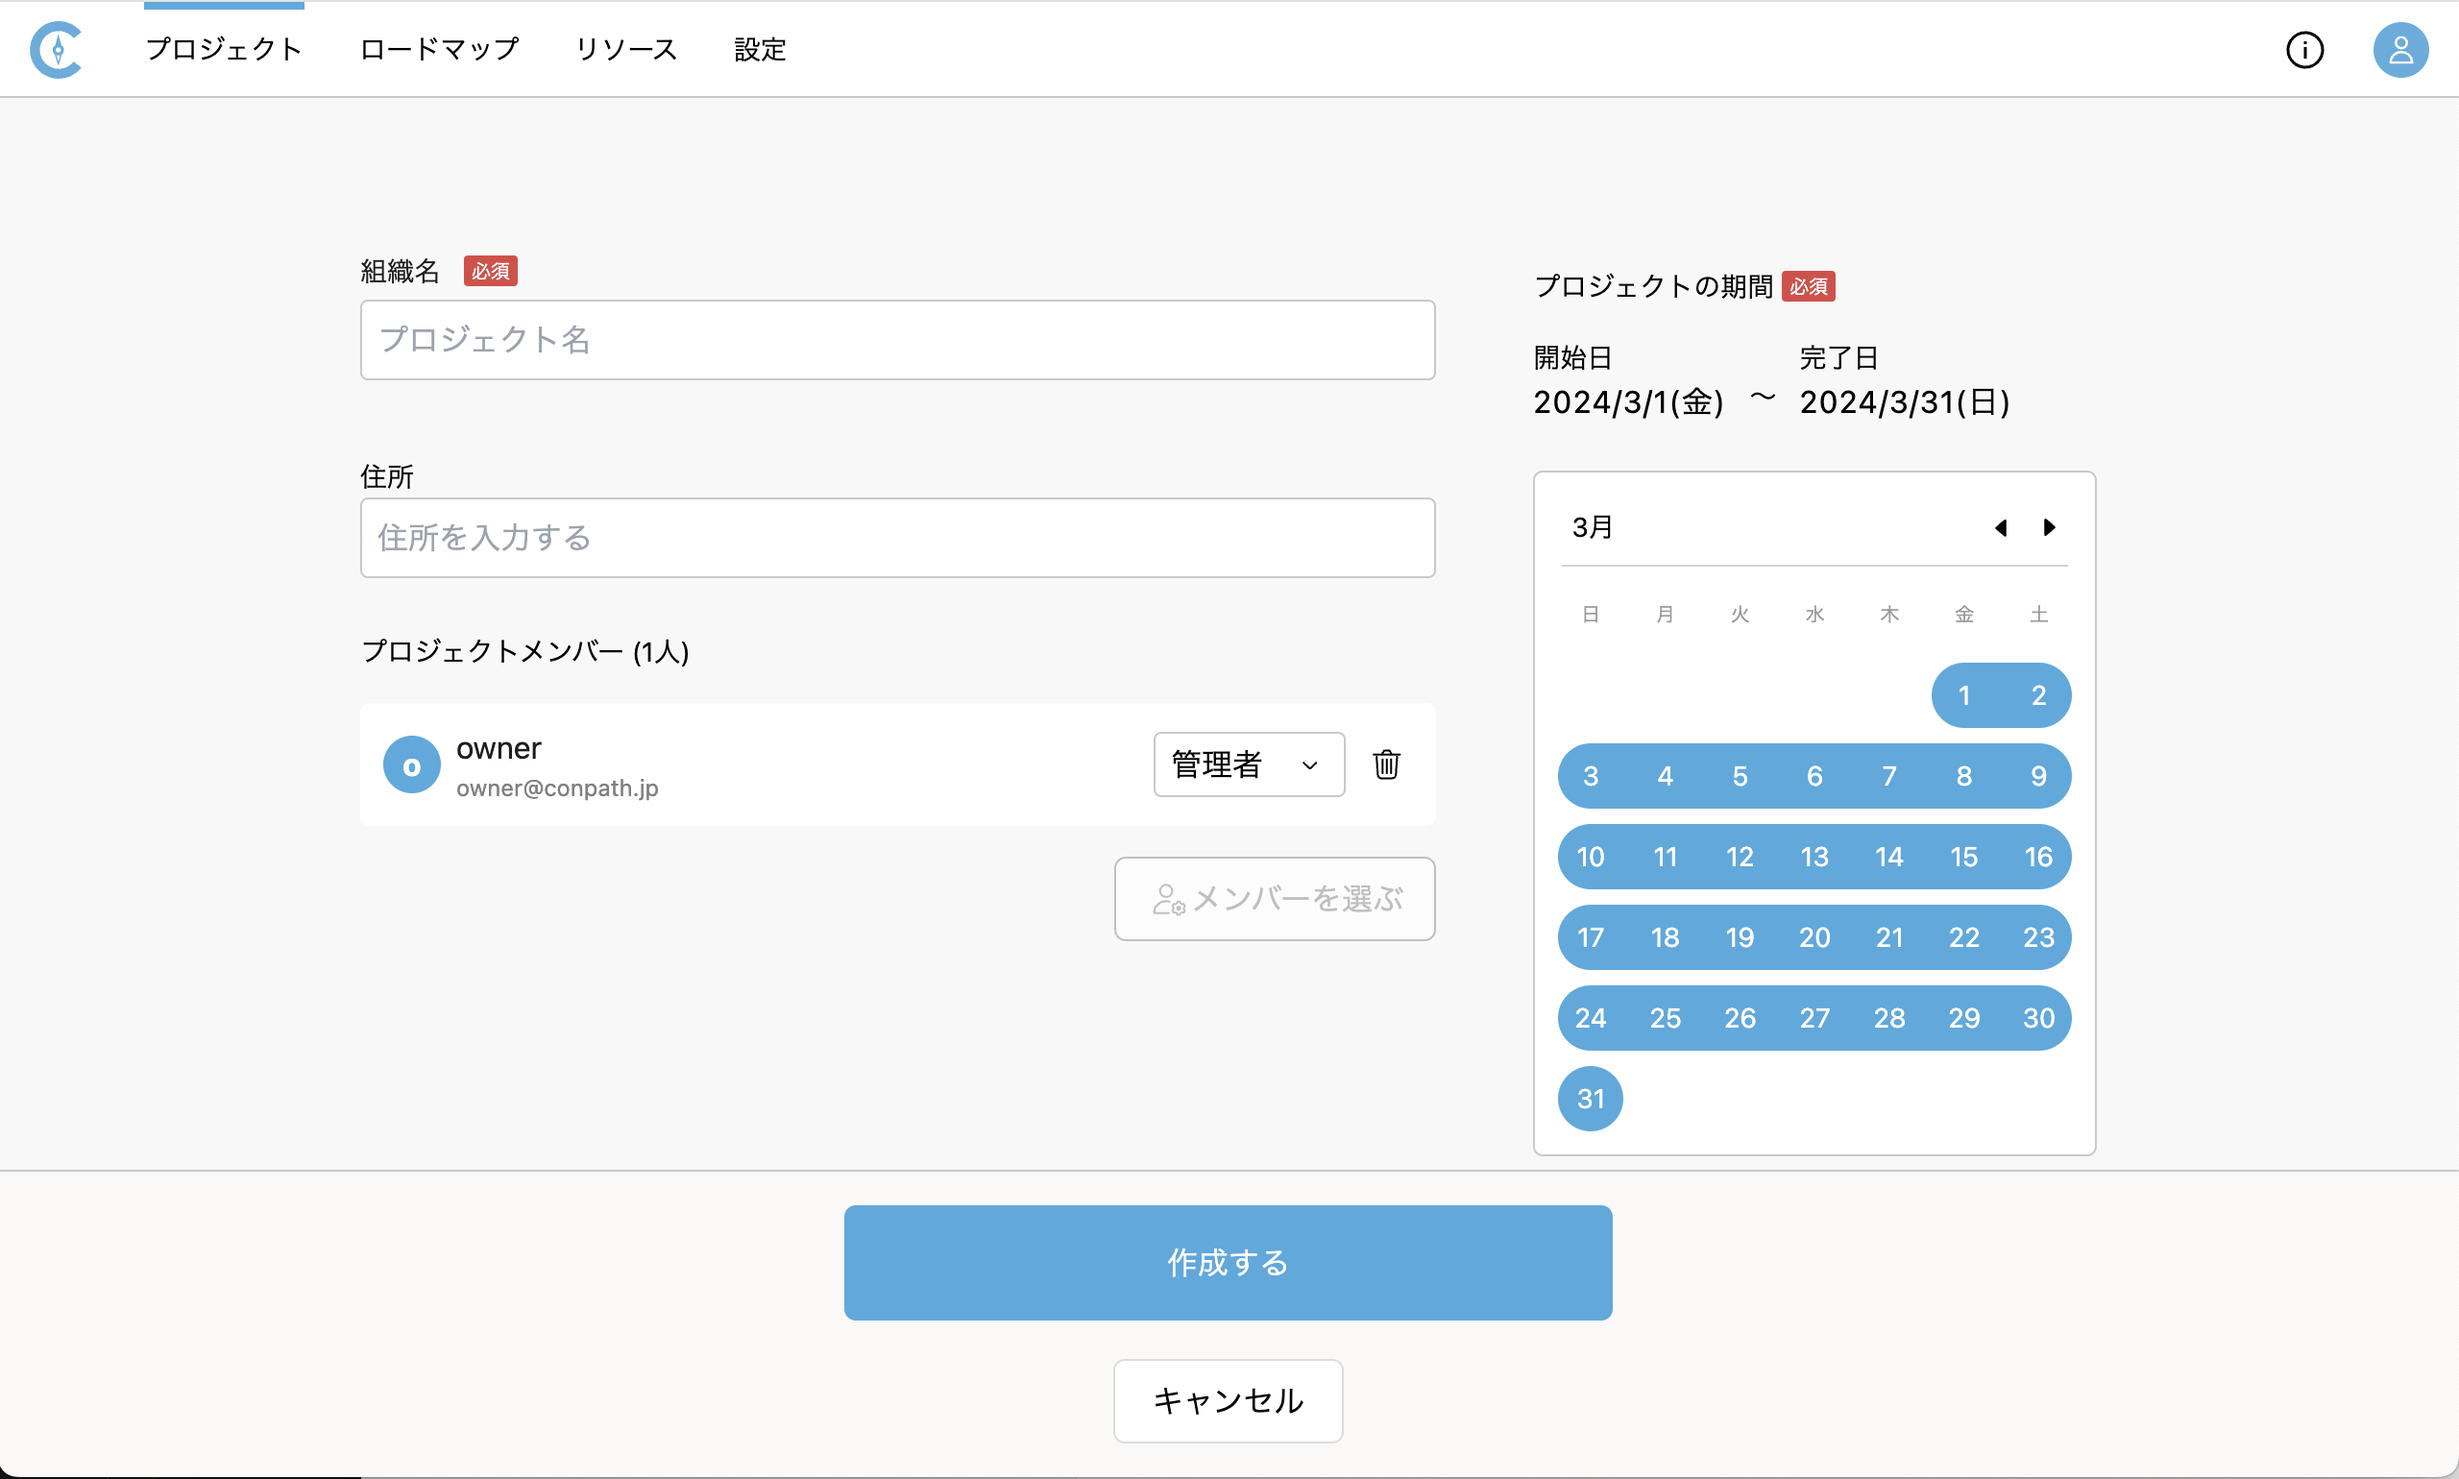
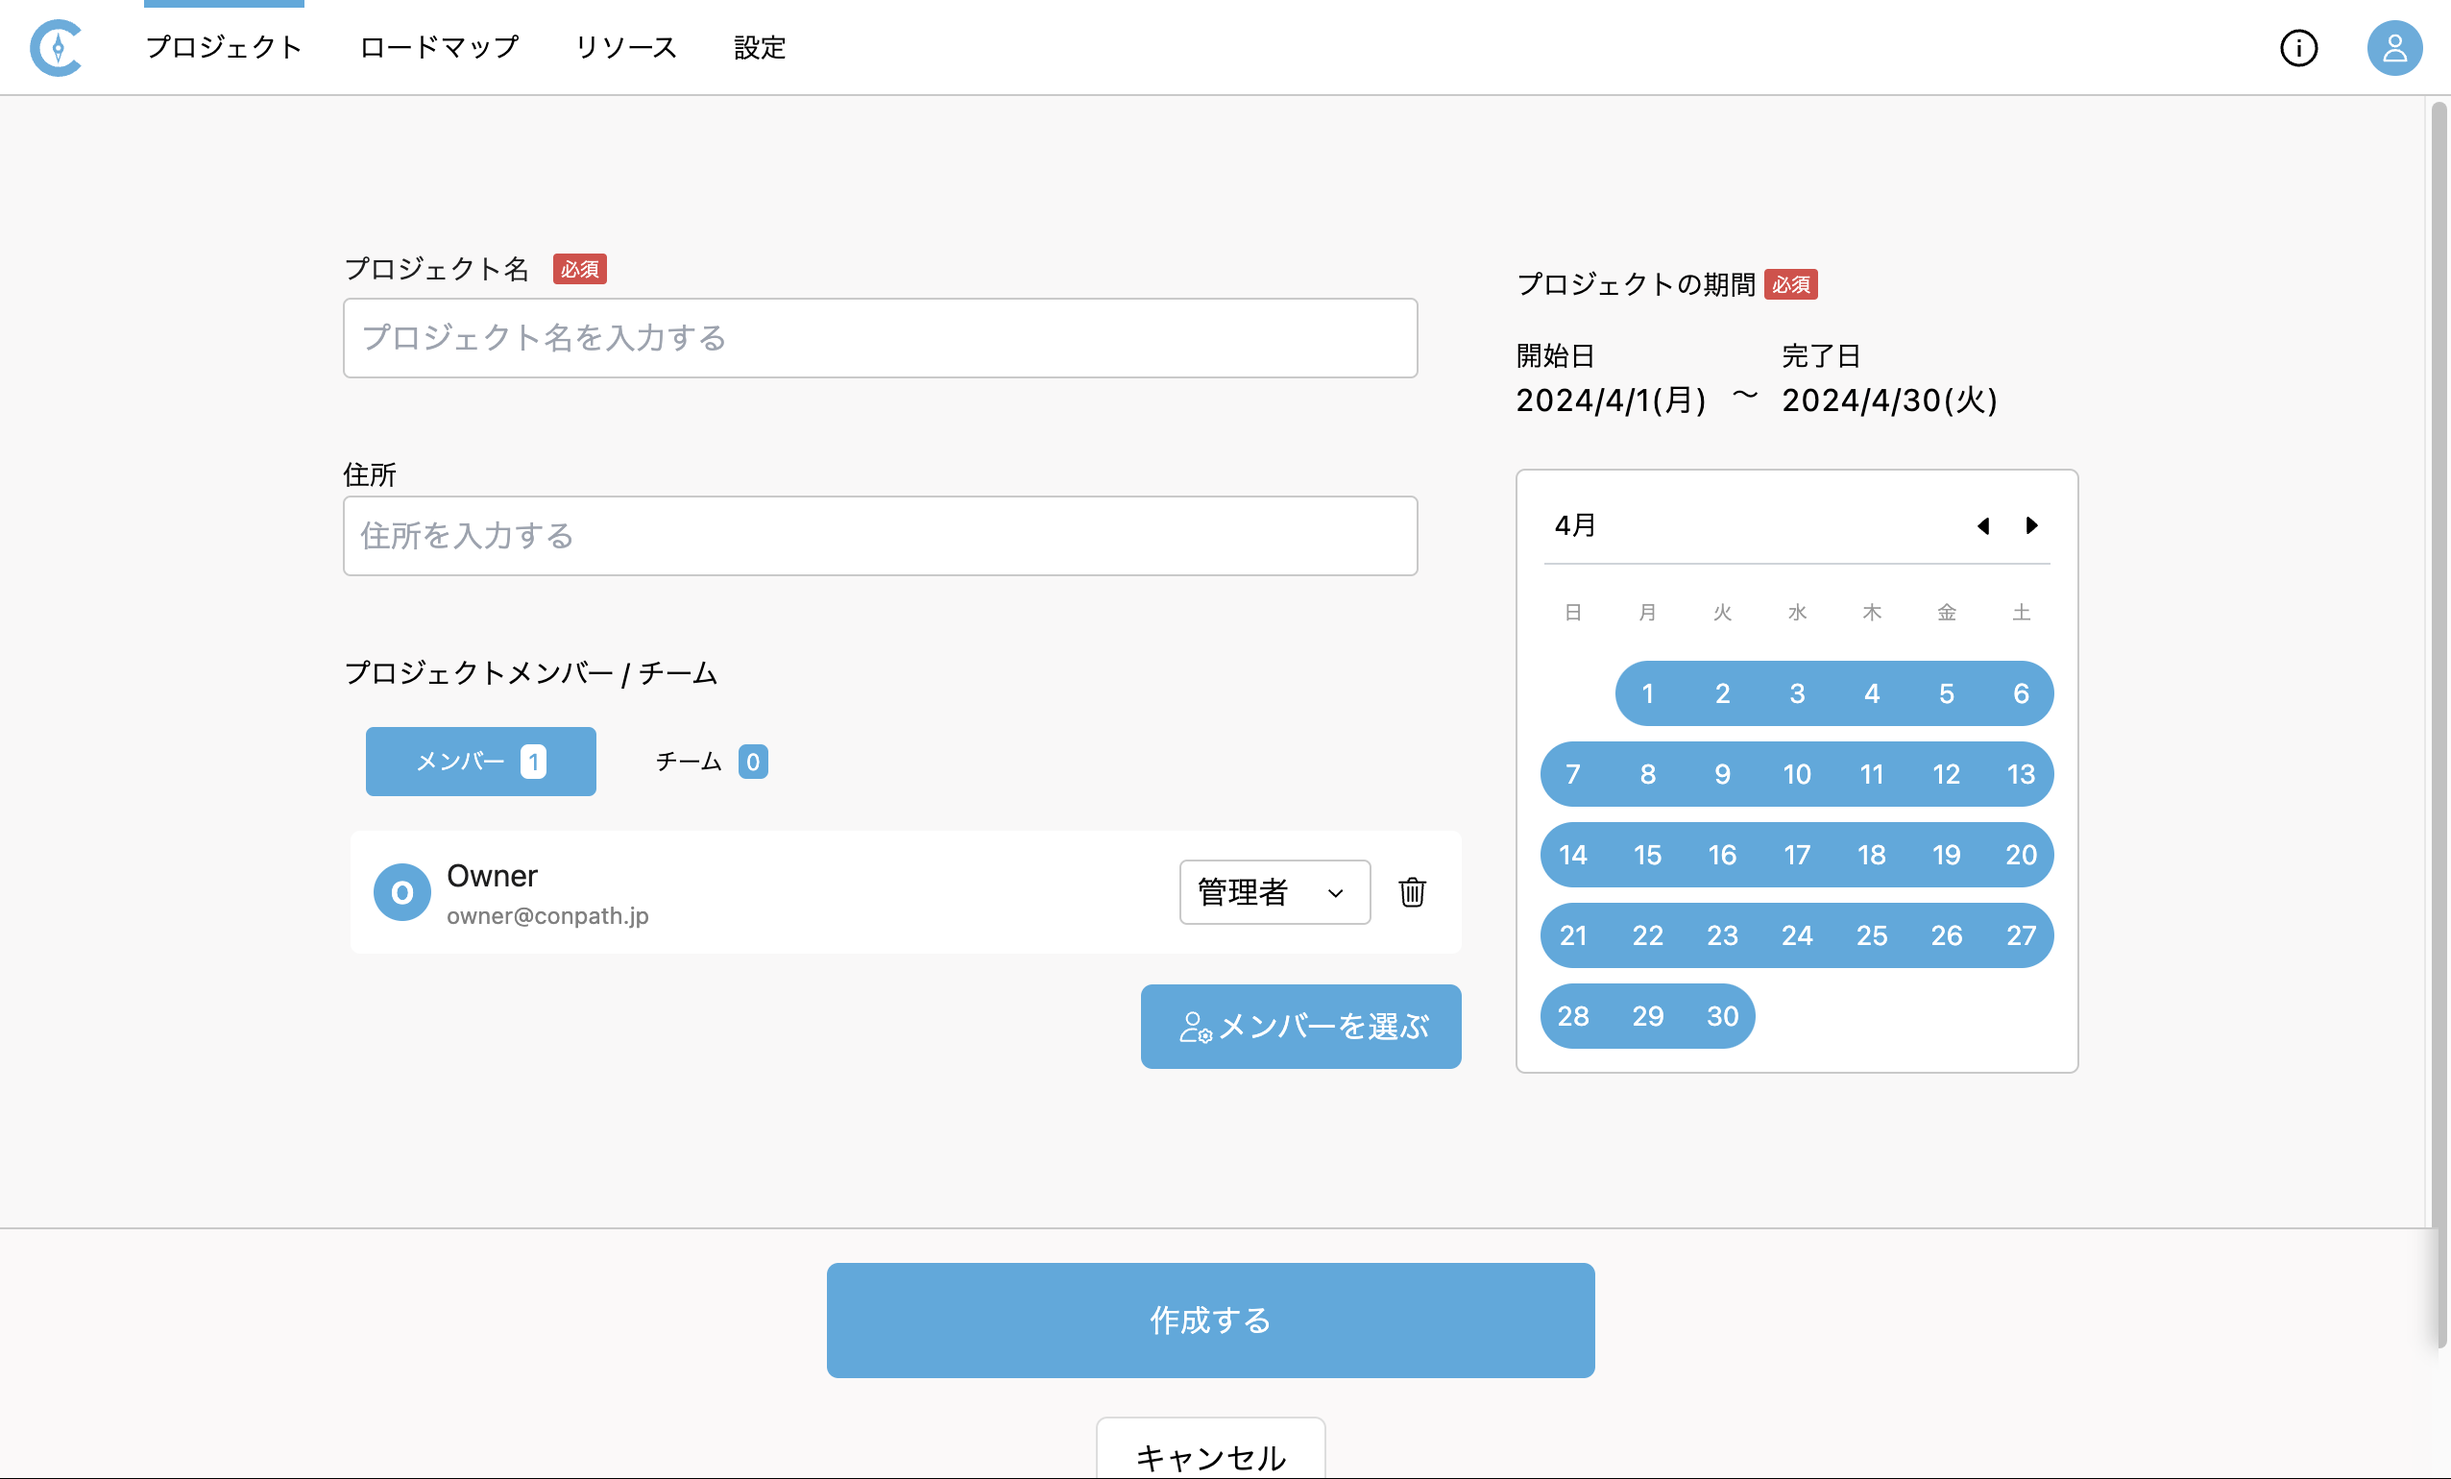
チーム管理機能を追加

diff --git a/projects/manage-project/index.md b/projects/manage-project/index.md
@@ -21,13 +21,14 @@ has_children: false
 
 1. プロジェクト一覧を開きます。
 2. [+新規プロジェクト]ボタンをクリックします。
-3. プロジェクト名、期間、プロジェクトメンバーを選択し、[作成する]ボタンをクリックします。
+3. プロジェクト名、期間、プロジェクトメンバー / チームを選択し、[作成する]ボタンをクリックします。
 
    <table><tr><td>
    <img src="/assets/images/projects/manage-project/1.png">
    </td></tr></table>
 
 {: .note }
+プロジェクトに同一のメンバーが所属するチームが複数割り当てられている場合、一番高い権限が適用されます。  
 この設定は組織の権限がオーナー、メンバーのみ可能です。
 
 ## プロジェクトの設定を変更する
@@ -39,13 +40,14 @@ has_children: false
    <img src="/assets/images/projects/manage-project/2.png" width="30%">
    </td></tr></table>
 
-3. プロジェクト名、期間、プロジェクトメンバーを選択し、[変更する]ボタンをクリックします。
+3. プロジェクト名、期間、プロジェクトメンバー / チームを選択し、[変更する]ボタンをクリックします。
 
    <table><tr><td>
    <img src="/assets/images/projects/manage-project/3.png">
    </td></tr></table>
 
 {: .note }
+プロジェクトに同一のメンバーが所属するチームが複数割り当てられている場合、一番高い権限が適用されます。  
 この設定は組織の権限がオーナー、またはプロジェクトの権限が管理者のみ可能です。
 
 ## プロジェクトの休日を設定する
@@ -71,7 +73,7 @@ has_children: false
 
 {: .note }
 タスク個別の休日は[個別休日を設定する]({% link projects/task/holiday-settings.md %})をご参照ください。  
-この設定は組織の権限がオーナー、またはプロジェクトの権限が管理者、メンバーのみ可能です。
+この設定は組織の権限がオーナー、またはプロジェクトの権限が管理者、編集者のみ可能です。
 
 ## プロジェクトの期間を変更する
 
@@ -91,7 +93,7 @@ has_children: false
 4. [確定]ボタンをクリックします。
 
 {: .note }
-この設定は組織の権限がオーナー、またはプロジェクトの権限が管理者、メンバーのみ可能です。
+この設定は組織の権限がオーナー、またはプロジェクトの権限が管理者、編集者のみ可能です。
 
 ## プロジェクトを印刷する
 
@@ -116,7 +118,7 @@ has_children: false
    <img src="/assets/images/projects/manage-project/10.png" width="30%">
    </td></tr></table>
 
-3. プロジェクト名、期間、プロジェクトメンバーを選択し、[複製する]ボタンをクリックします。  
+3. プロジェクト名、期間、プロジェクトメンバー / チームを選択し、[複製する]ボタンをクリックします。  
 
    <table><tr><td>
    <img src="/assets/images/projects/manage-project/11.png" width="100%">
@@ -125,6 +127,7 @@ has_children: false
 {: .note }
 期間を変更した場合、変更後の開始日に合わせてタスクの開始日が更新されます。  
 また、完了済みのタスクは未完了になります。  
+プロジェクトに同一のメンバーが所属するチームが複数割り当てられている場合、一番高い権限が適用されます。  
 この設定は組織の権限がオーナー、またはプロジェクトの権限が管理者のみ可能です。
 
 ## プロジェクトを削除する

diff --git a/settings/teams/index.md b/settings/teams/index.md
@@ -1,0 +1,86 @@
+---
+layout: default
+title: チーム管理
+parent: 設定
+nav_order: 3
+has_children: false
+---
+
+# チーム管理
+{: .no_toc }
+
+チーム管理では、組織のメンバーをグループで登録することができます。登録したチームを[プロジェクトに割り当てる]({% link projects/manage-project/index.md %})ことで、ユーザーの管理が容易になります。
+
+## 目次
+{: .no_toc .text-delta }
+
+1. TOC
+{:toc}
+
+---
+
+## チームを新規追加する
+
+1. [設定>チーム管理]を開きます。
+
+   <table><tr><td>
+   <img src="/assets/images/settings/teams.png" width="100%">
+   </td></tr></table>
+
+2. [新規追加]ボタンをクリックします。
+
+   <table><tr><td>
+   <img src="/assets/images/settings/teams/1.png" width="80%">
+   </td></tr></table>
+
+3. チーム名を入力し、[メンバーを選ぶ]ボタンをクリックします。
+
+   <table><tr><td>
+   <img src="/assets/images/settings/teams/2.png" width="100%">
+   </td></tr></table>
+
+4. チームに追加するメンバーにチェックマークを付けて、[選択したメンバーを追加する]ボタンをクリックします。
+
+   <table><tr><td>
+   <img src="/assets/images/settings/teams/3.png" width="100%">
+   </td></tr></table>
+
+5. [作成する]ボタンをクリックします。
+
+   <table><tr><td>
+   <img src="/assets/images/settings/teams/4.png" width="100%">
+   </td></tr></table>
+   <table><tr><td>
+   <img src="/assets/images/settings/teams/5.png" width="100%">
+   </td></tr></table>
+
+{: .note }
+この設定は組織の権限がオーナーのみ可能です。
+
+## チームを編集する
+
+1. [設定>チーム管理]を開きます。
+2. チーム一覧のチームの[...]のドロップダウンメニューから[編集する]をクリックします。
+
+   <table><tr><td>
+   <img src="/assets/images/settings/teams/6.png" width="100%">
+   </td></tr></table>
+
+3. チームの情報を入力し、[変更]ボタンをクリックします。
+
+{: .note }
+この設定は組織の権限がオーナーのみ可能です。
+
+## チームを削除する
+
+1. [設定>チーム管理]を開きます。
+2. チーム一覧のチームの[...]のドロップダウンメニューから[削除する]をクリックします。
+
+   <table><tr><td>
+   <img src="/assets/images/settings/teams/7.png" width="100%">
+   </td></tr></table>
+
+3. [削除する]をクリックします。
+
+{: .note }
+この設定は組織の権限がオーナーのみ可能です。

diff --git a/started/join-project.md b/started/join-project.md
@@ -22,10 +22,10 @@ has_children: false
 
 ## プロジェクトの権限
 
-プロジェクト毎、プロジェクトにアサインされるユーザー毎に、管理者、メンバー、閲覧のみのいずれかの権限を割り当てることができます。
+プロジェクト毎、プロジェクトにアサインされるユーザー毎に、管理者、編集者、閲覧のみのいずれかの権限を割り当てることができます。
 権限によってアクセスできる機能が異なります。
 
-| 機能/権限                              | 管理者 | メンバー | 閲覧のみ |
+| 機能/権限                              | 管理者 | 編集者 | 閲覧のみ |
 | :------------------------------------- | :----- | :------- | :------- |
 | コメント                               | ⚪      | ⚪        | ⚪        |
 | キャンバスへの描画（タスクの作成など） | ⚪      | ⚪        | ×        |

diff --git a/CHANGELOG.md b/CHANGELOG.md
@@ -7,9 +7,14 @@ layout: default
 
 <!-- All notable user-facing changes to this project are documented in this file. -->
 
+## Release v1.2.0
+
+### 新機能
+- [チーム管理](/settings/teams/)で組織内のメンバーをグループ単位で登録できるようになりました
+
 ## Release v1.1.0
 
-### 追加機能
+### 新機能
 - 複数のタスクの[担当者](/projects/task/assign-users#複数のタスクの担当者をまとめてアサインアサイン解除する)、[関連リソース](/projects/task/assign-resources#複数のタスクのリソースをまとめて関連付け関連付けを解除する)をまとめて登録できるようになりました
 
 ## Release v1.0.0

diff --git a/settings/profile/index.md b/settings/profile/index.md
@@ -2,7 +2,7 @@
 layout: default
 title: プロフィール設定
 parent: 設定
-nav_order: 4
+nav_order: 5
 has_children: false
 ---
 

diff --git a/settings/account/index.md b/settings/account/index.md
@@ -2,7 +2,7 @@
 layout: default
 title: アカウント設定
 parent: 設定
-nav_order: 5
+nav_order: 6
 has_children: false
 ---
 

diff --git a/settings/resources/index.md b/settings/resources/index.md
@@ -2,7 +2,7 @@
 layout: default
 title: リソース管理
 parent: 設定
-nav_order: 3
+nav_order: 4
 has_children: false
 ---
 
